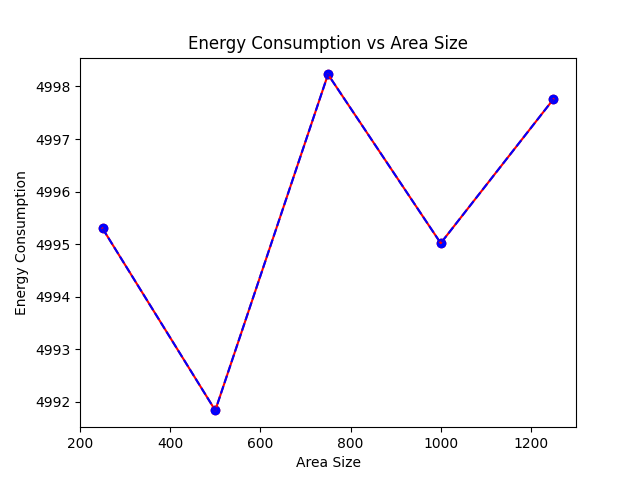
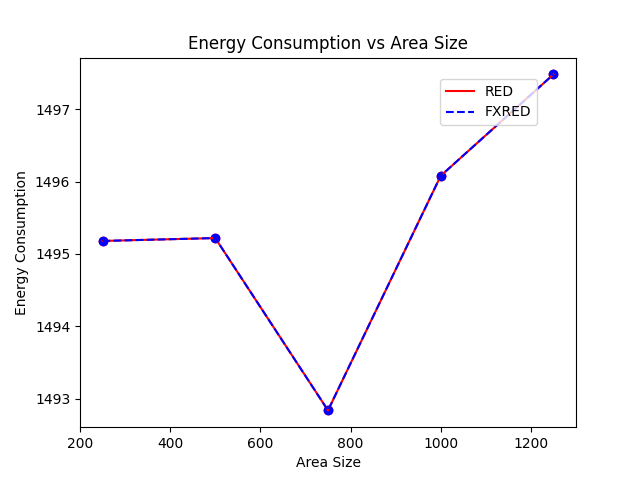
completed

diff --git a/wireless/graphGenerator.py b/wireless/graphGenerator.py
@@ -21,6 +21,10 @@ def plotGraph(xs, ys1, ys2, xLabel : str, yLabel : str, title : str, fileName : 
     ax.set_xlabel(xLabel)
     ax.set_ylabel(yLabel)
     
+    if yLabel == 'Delivery Ratio' or yLabel == 'Drop Ratio':
+        ax.set_ylim(0, 1)
+            
+    fig.legend(loc='upper right', bbox_to_anchor=(0.85, 0.85), ncol=1)
     # save the plot as a file
     fig.savefig(graph_folder + '/' +fileName)
     
